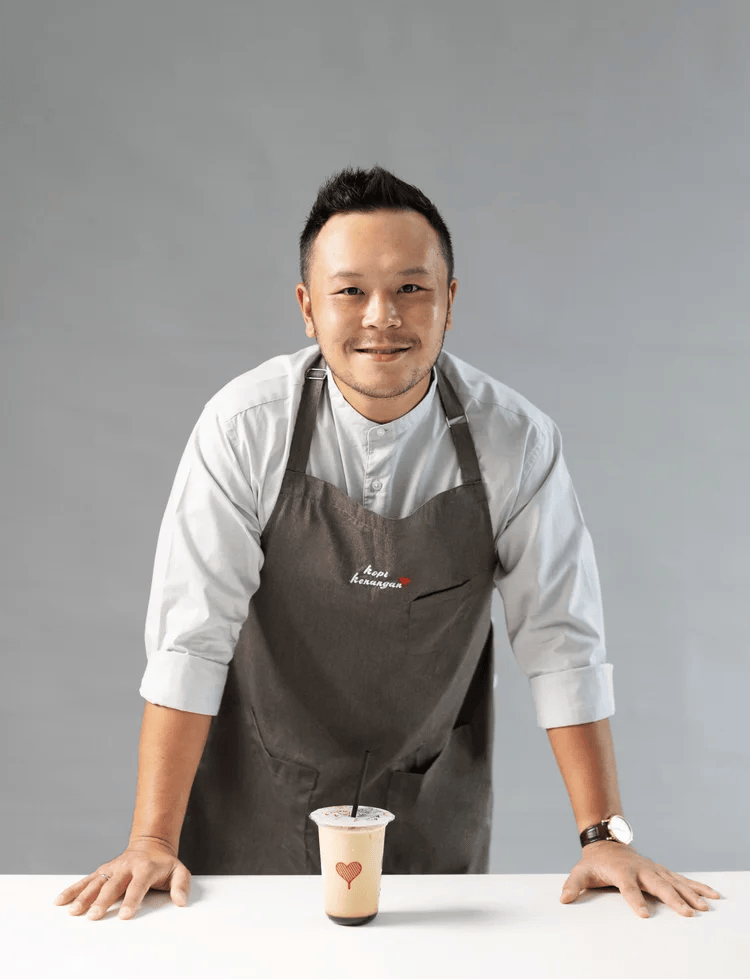
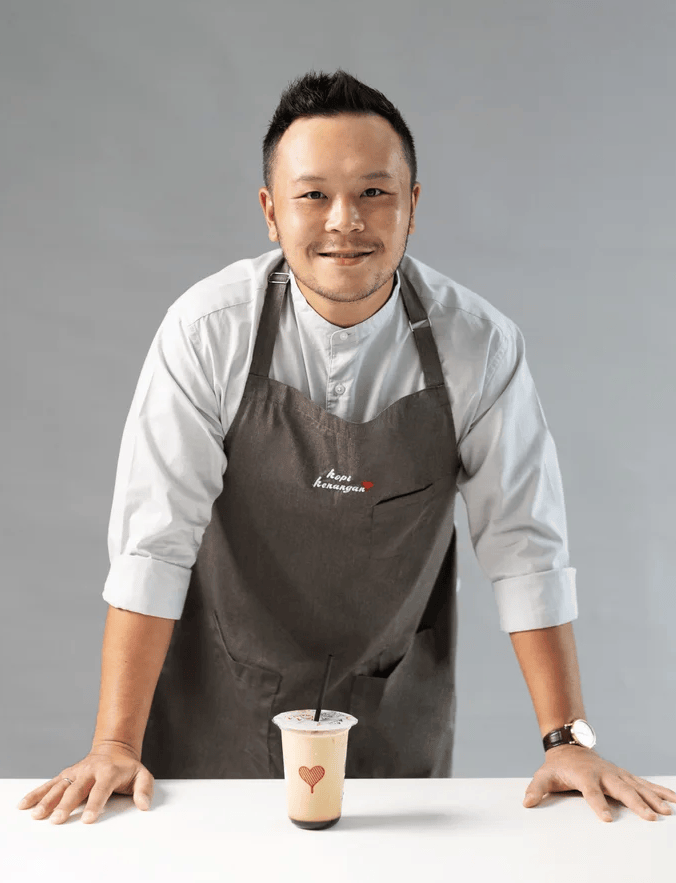
feat: update experience images and founder profile pictures

Changed region(s): [[0.0, 0.0612, 1.0, 0.9479], [0.3728, 0.7644, 0.4038, 0.795]]

diff --git a/src/components/Speakers.tsx b/src/components/Speakers.tsx
@@ -12,13 +12,13 @@ export default function Speakers() {
       name: "James Prananto",
       role: "CBO & Co-Founder",
       label: "FOUNDER",
-      image: "/assets/speaker-keisuke-tanaka.webp",
+      image: "/assets/james.png",
     },
     {
       name: "Cynthia Chaerunnisa",
       role: "CMO & Co-Founder",
       label: "FOUNDER",
-      image: "/assets/speaker-yumi-nakamura.webp",
+      image: "/assets/cynthia.png",
     },
   ];
 
@@ -75,8 +75,18 @@ export default function Speakers() {
 
         <a href="#story" className="ticket-pill mt-6">
           <span>COFFEE JOURNEY</span>
-          <svg className="w-5 h-5 p-1 border border-current rounded-full" viewBox="0 0 24 24">
-            <path d="M5 12h12m-5-5 5 5-5 5" fill="none" stroke="currentColor" strokeWidth="1.5" strokeLinecap="round" strokeLinejoin="round" />
+          <svg
+            className="w-5 h-5 p-1 border border-current rounded-full"
+            viewBox="0 0 24 24"
+          >
+            <path
+              d="M5 12h12m-5-5 5 5-5 5"
+              fill="none"
+              stroke="currentColor"
+              strokeWidth="1.5"
+              strokeLinecap="round"
+              strokeLinejoin="round"
+            />
           </svg>
         </a>
       </div>

diff --git a/src/components/Installations.tsx b/src/components/Installations.tsx
@@ -5,17 +5,17 @@ export default function Installations() {
     {
       title: "Harmonic Extraction Lab",
       category: "Immersive Sensory Environment",
-      image: "/assets/install-flux.webp",
+      image: "/assets/harmonic.png",
     },
     {
       title: "Aroma Compiler",
       category: "Generative Coffee Sculpture",
-      image: "/assets/install-dream.webp",
+      image: "/assets/aroma.png",
     },
     {
       title: "Echoes of Roastery",
       category: "Acoustic Bean Soundscape",
-      image: "/assets/install-echoes.webp",
+      image: "/assets/roastery.png",
     },
   ];
 
